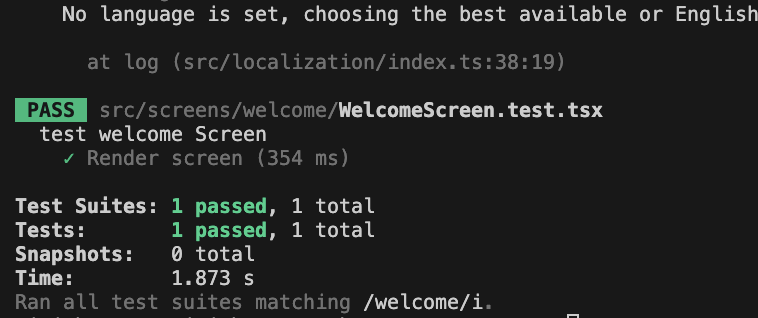
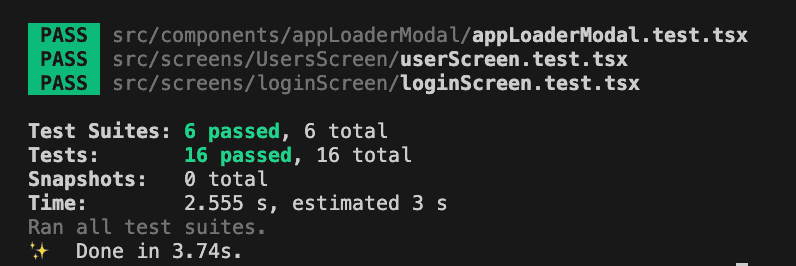
Teas cass added

Changed region(s): [[0.0, 0.0, 1.0, 0.9925], [0.7282, 0.9925, 0.7889, 1.0], [0.9103, 0.9925, 0.9406, 1.0]]

diff --git a/src/redux/themeStore/reducers.ts b/src/redux/themeStore/reducers.ts
@@ -1,6 +1,5 @@
-// import AsyncStorage from '@react-native-community/async-storage';
 import AsyncStorage from '@react-native-async-storage/async-storage';
-import { createSlice, PayloadAction } from "@reduxjs/toolkit";
+import { createSlice, PayloadAction } from '@reduxjs/toolkit';
 import { APP_CONST } from '../../Config/Colors';
 
 export interface DARK_THEME_TYPE {
@@ -8,35 +7,35 @@ export interface DARK_THEME_TYPE {
 }
 
 const INITIAL_STATE: DARK_THEME_TYPE = {
-  isDarkTheme: false
-}
+  isDarkTheme: false,
+};
 
 const changeThemAction = (state: DARK_THEME_TYPE, action: any) => {
-  const jsonValue = JSON.stringify({ isDarkTheme: action.payload })
+  const jsonValue = JSON.stringify({ isDarkTheme: action.payload });
   AsyncStorage.setItem(APP_CONST.CHECK_THEME, jsonValue);
   return {
     ...state,
-    isDarkTheme: action.payload
-  }
-}
+    isDarkTheme: action.payload,
+  };
+};
 
 const checkThemAction = (state: DARK_THEME_TYPE, action: PayloadAction<boolean>) => {
   return {
     ...state,
-    isDarkTheme: action.payload
-  }
-}
+    isDarkTheme: action.payload,
+  };
+};
 
 
 export const themSlice = createSlice({
-  name: "themSlice",
+  name: 'themSlice',
   initialState: INITIAL_STATE,
   reducers: {
     changeThemAction: (state, action: PayloadAction<boolean>) => {
-      return changeThemAction(state, action)
+      return changeThemAction(state, action);
     },
     checkThemAction: (state, action: PayloadAction<boolean>) => {
-      return checkThemAction(state, action)
+      return checkThemAction(state, action);
     },
   },
 });

diff --git a/__mocks__/navigationMock/navigationMock.js b/__mocks__/navigationMock/navigationMock.js
@@ -1,16 +1,1 @@
-// include this line for mocking react-native-gesture-handler
 import 'react-native-gesture-handler/jestSetup';
-
-// include this section and the NativeAnimatedHelper section for mocking react-native-reanimated
-// jest.mock('react-native-reanimated', () => {
-//     const Reanimated = require('react-native-reanimated/mock');
-
-//     // The mock for `call` immediately calls the callback which is incorrect
-//     // So we override it with a no-op
-//     Reanimated.default.call = () => { };
-
-//     return Reanimated;
-// });
-
-// Silence the warning: Animated: `useNativeDriver` is not supported because the native animated module is missing
-// jest.mock('react-native/Libraries/Animated/NativeAnimatedHelper');

diff --git a/__mocks__/react-native-localize.ts b/__mocks__/react-native-localize.ts
@@ -1,2 +1,1 @@
-// __mocks__/react-native-localize.ts
-export * from "react-native-localize/mock"; // or "react-native-localize/mock/jest"
+export * from 'react-native-localize/mock';
